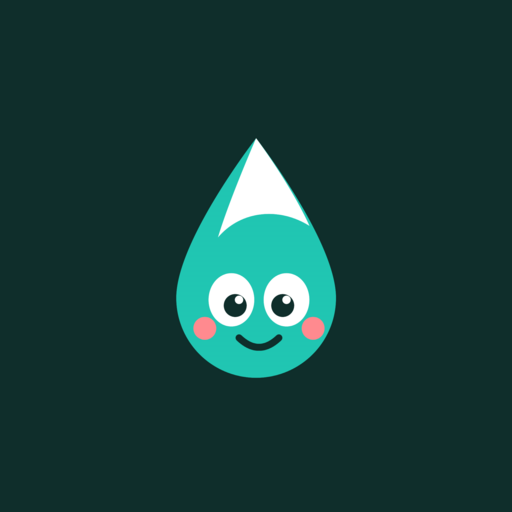
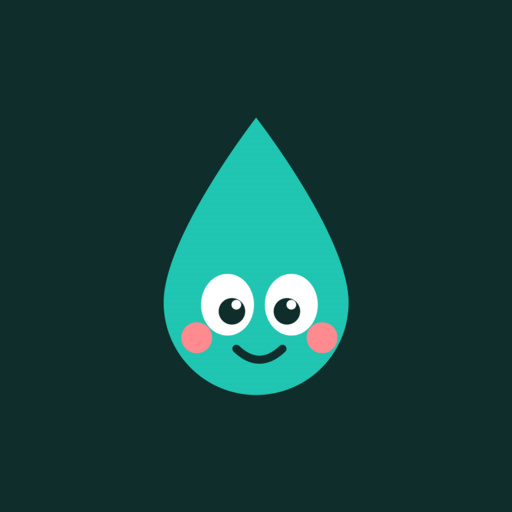
fix(pwa): goutte agrandie + pointe turquoise (plus de blanc)
Deux retours sur l'icone :
- Trop de marge -> goutte agrandie (47% -> 54% de hauteur) tout en gardant
  ~23% de marge de securite (verifie : survit a un zoom launcher de 140%,
  la pointe reste visible).
- "Blanc en haut au lieu du vert" : c'etait le reflet blanc (opacity 0.18)
  que le rasteriseur SVG rendait en blanc PLEIN (il ignore l'attribut
  opacity). Reflet supprime -> le haut de la goutte est turquoise.
  (Joues repassees en opaque leger, meme raison.)

icon.svg (master) : translate(124,100) scale(2.2), sans le path de reflet.
icon-512.png / icon-192.png regeneres (8-bit). sw.js cache v5 -> v6.

Changed region(s): [[0.3125, 0.2188, 0.6875, 0.7812]]

diff --git a/sw.js b/sw.js
@@ -1,5 +1,5 @@
 /* Sunami Service Worker — cache le shell pour usage hors-ligne */
-const CACHE = 'sunami-v5';
+const CACHE = 'sunami-v6';
 const SHELL = [
   '/',
   '/app',
